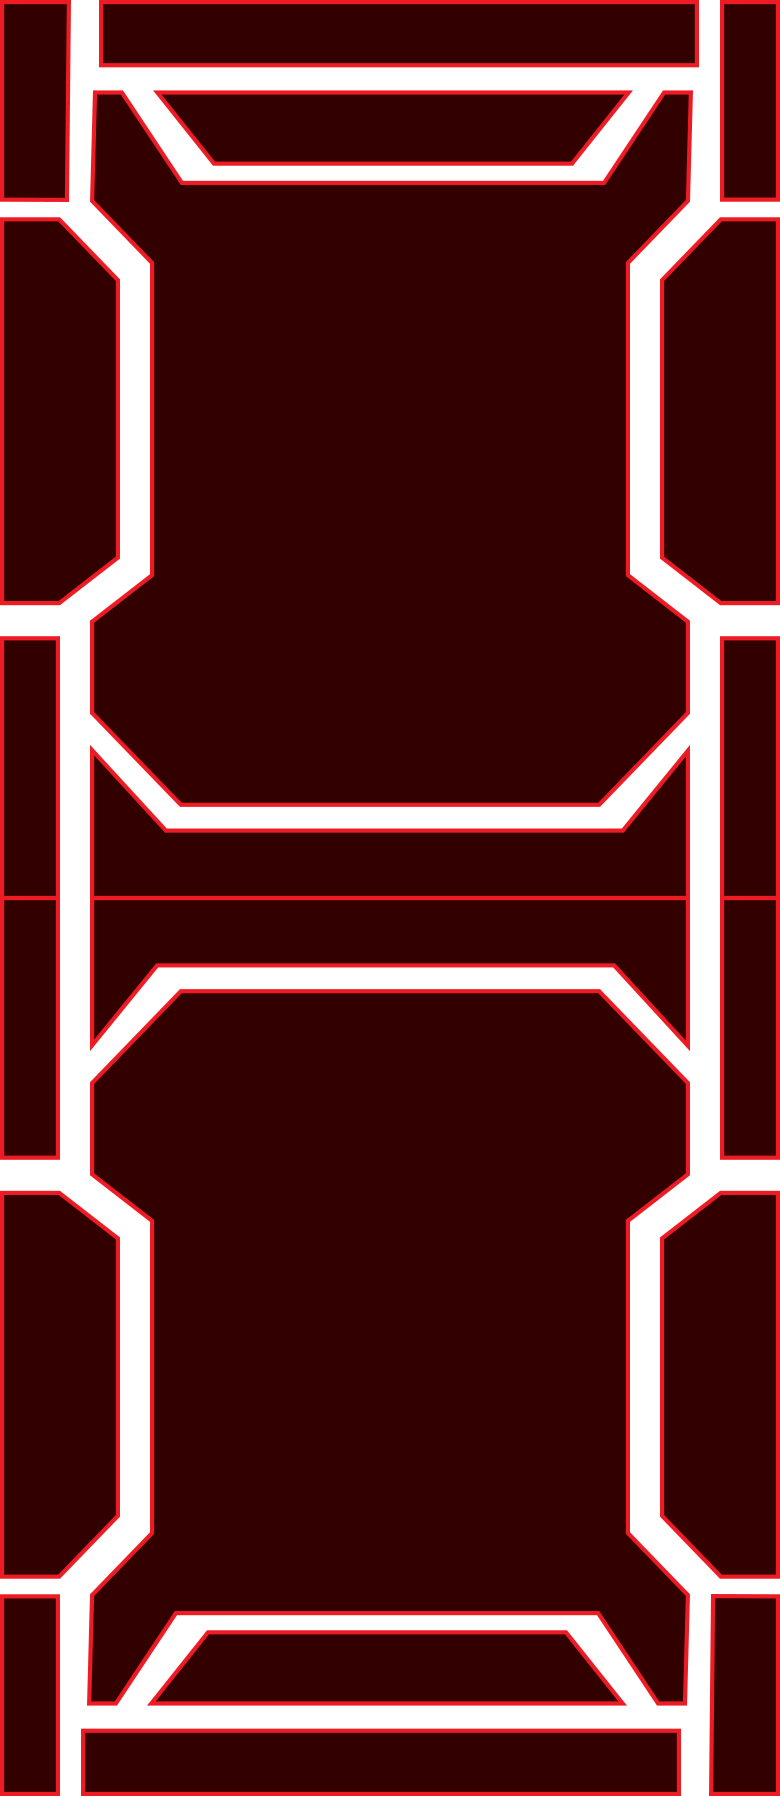
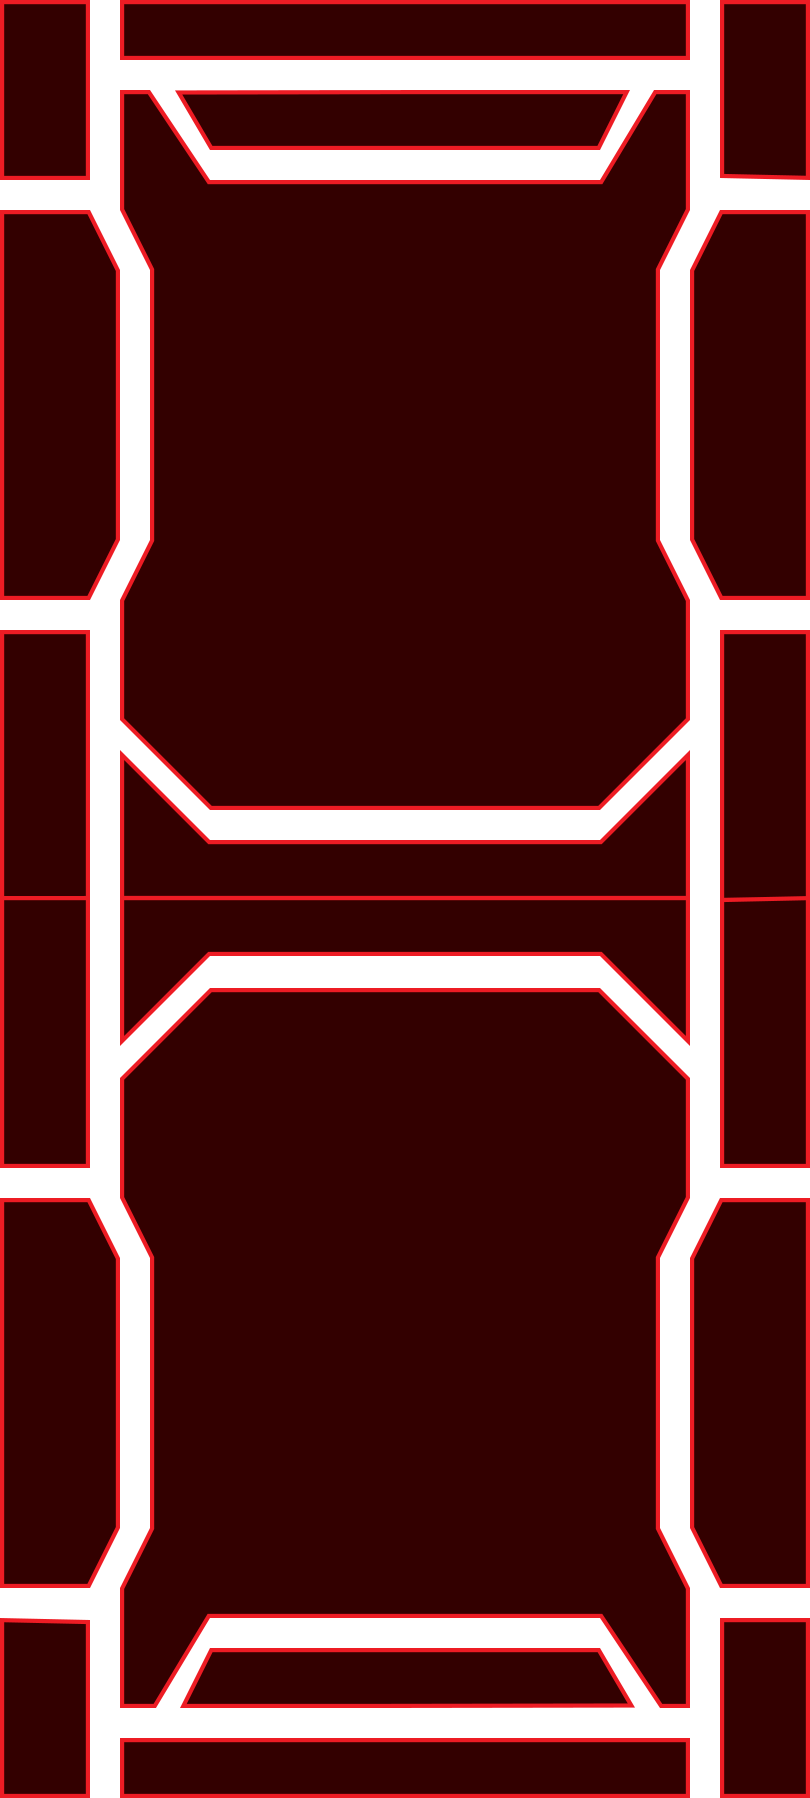
new updated files

Changed region(s): [[0.0, 0.0, 1.0, 1.0], [0.9846, 0.4989, 1.0, 0.5301]]

diff --git a/nathaniel/style.css b/nathaniel/style.css
@@ -56,7 +56,7 @@ abbr {
 	background-repeat:repeat-y;
 	/*border: solid thick #FFF;
 	background: #090;*/
-	width:780px;
+	width:810px;
 	}
 
 .intro {
@@ -111,7 +111,7 @@ header {
 	border-right:solid thick #fff;
 	border-top:solid thick #fff;
 	clear: right; 
-	padding: 0px 10px 0 10px;
+	/*padding: 0px 10px 0 10px;*/
 	margin-bottom:-15px auto;
 	}
 .supporting {
